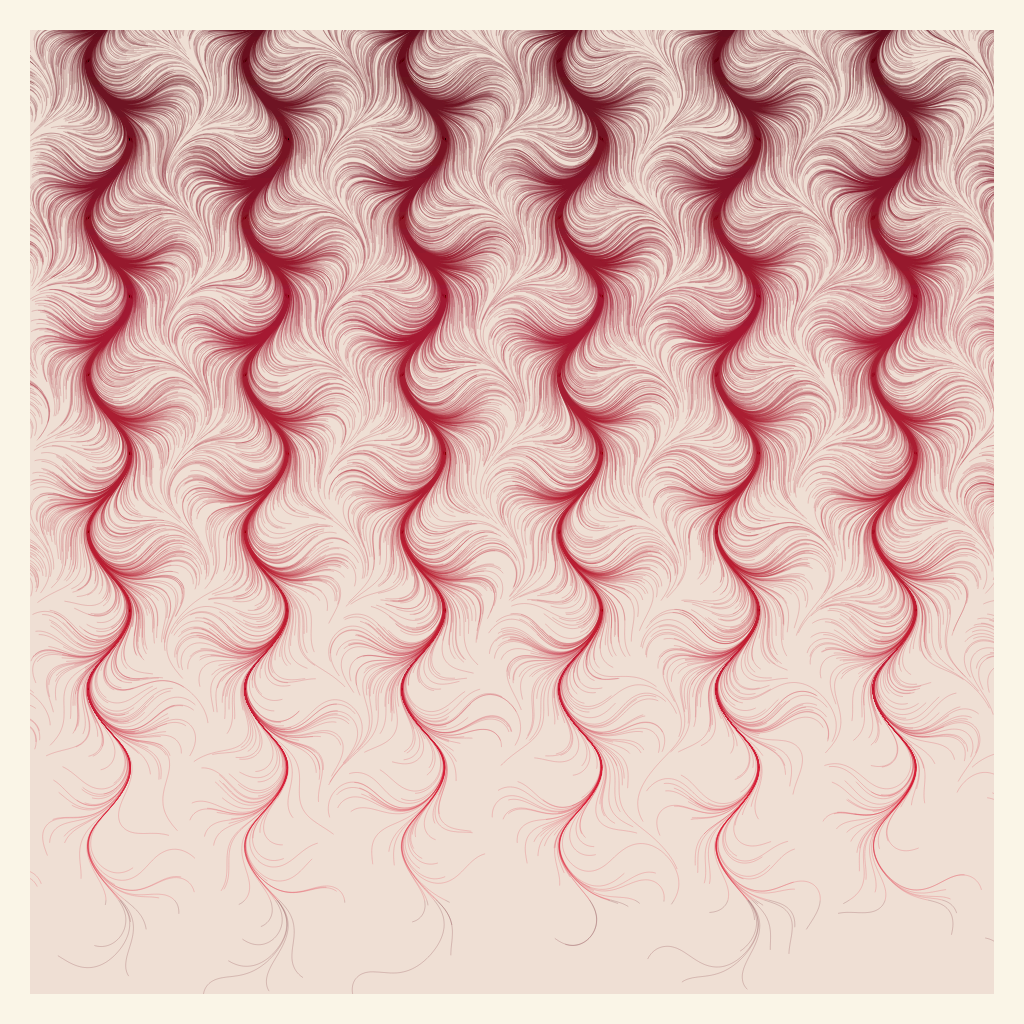
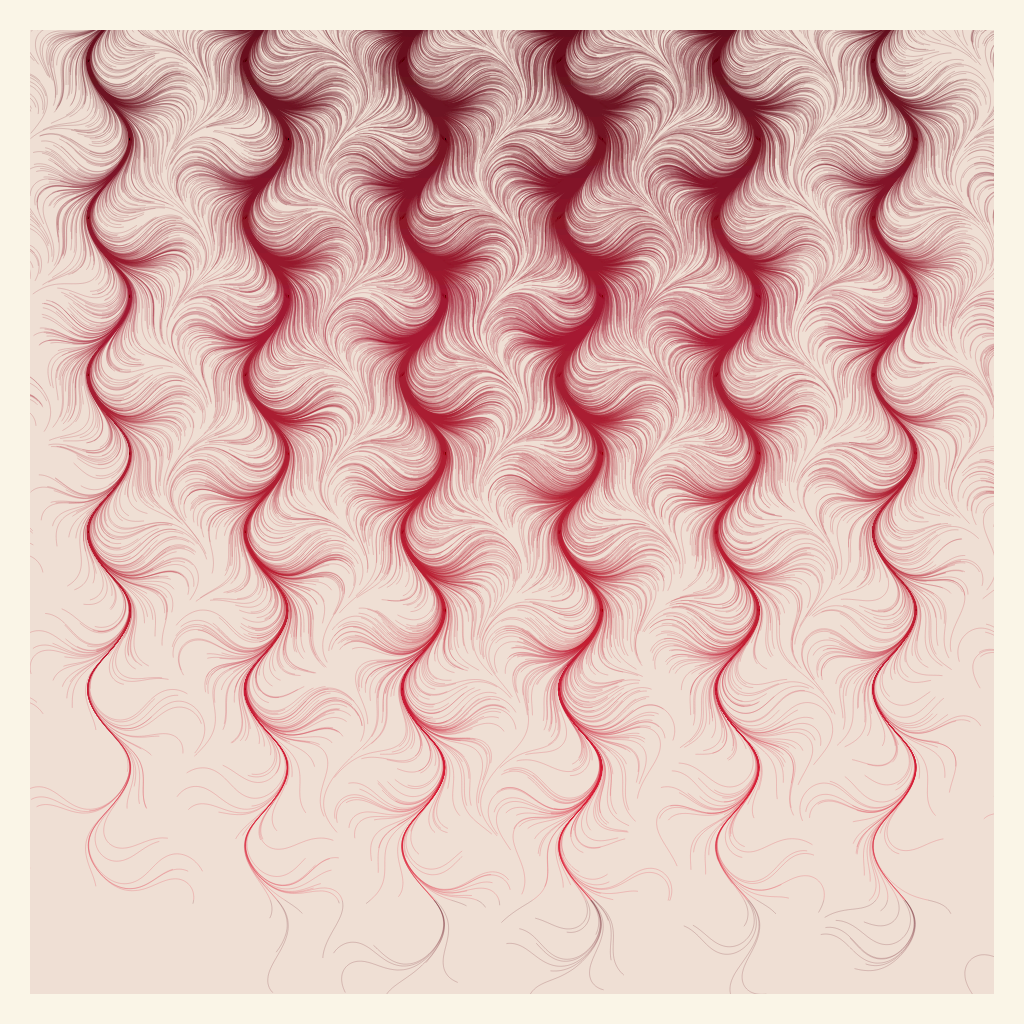
Better

diff --git a/arts/flowforce/src/main/kotlin/dev/oblac/gart/flowforce/Flow4.kt b/arts/flowforce/src/main/kotlin/dev/oblac/gart/flowforce/Flow4.kt
@@ -3,7 +3,6 @@ package dev.oblac.gart.flowforce
 import dev.oblac.gart.flow.ForceField
 import dev.oblac.gart.flow.WaveFlowForce
 import dev.oblac.gart.gfx.*
-import dev.oblac.gart.math.nextFloat
 import dev.oblac.gart.skia.Point
 import dev.oblac.gart.toFrames
 import java.util.*
@@ -31,7 +30,7 @@ fun main() {
     val rnd = Random()
 
     var randomPoints = Array(30000) {
-        Point(nextFloat(d.wf), (rnd.nextGaussian(d.hf.toDouble() / 6, d.hf.toDouble() / 4)).toFloat())
+        Point(rnd.nextGaussian(d.wf.toDouble() / 2, d.wf.toDouble() / 4).toFloat(), (rnd.nextGaussian(d.hf.toDouble() / 6, d.hf.toDouble() / 4)).toFloat())
     }.toList()
 
     g.canvas.clear(BgColors.sand)
